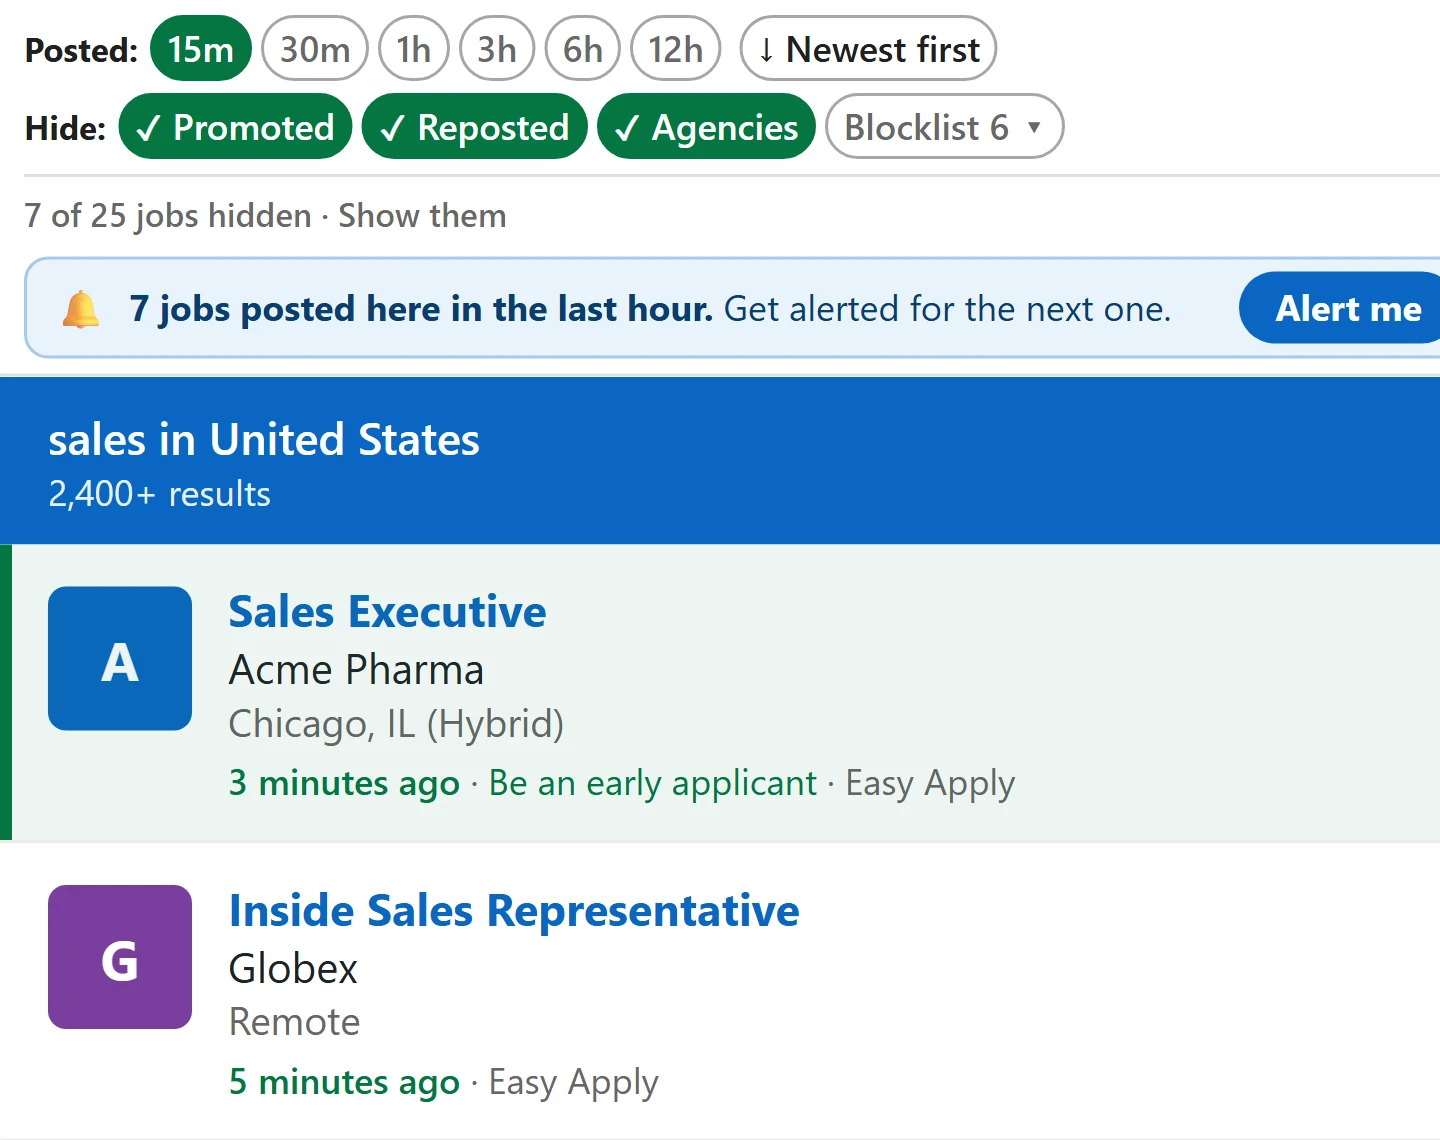
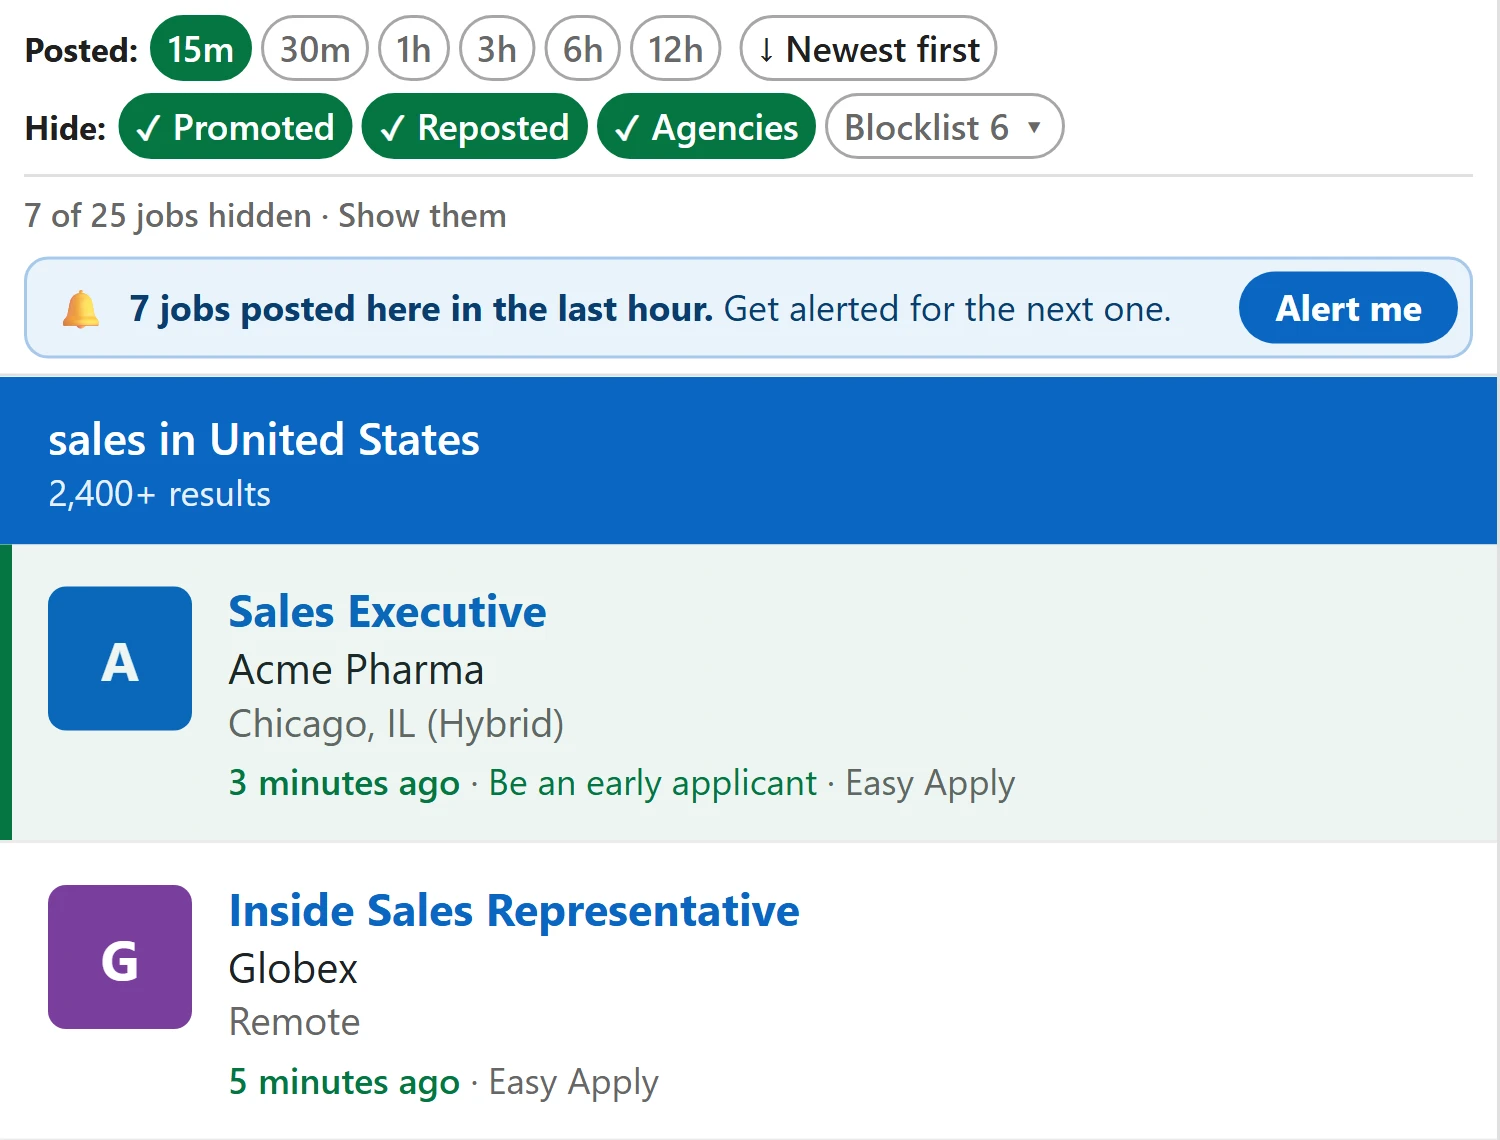
Site: before/after crop shows the full Alert me button

diff --git a/hide-promoted-reposted-jobs-linkedin.html b/hide-promoted-reposted-jobs-linkedin.html
@@ -140,11 +140,11 @@
     <p>This is the same search with EarlyApply's Hide buttons off, then on.</p>
     <div class="ba">
       <figure class="shot">
-        <picture><source srcset="img/ba-before.webp" type="image/webp"><img loading="lazy" src="img/ba-before.jpg" alt="LinkedIn jobs list before: a Reposted job and a Promoted job are in the results" width="480" height="380"></picture>
+        <picture><source srcset="img/ba-before.webp" type="image/webp"><img loading="lazy" src="img/ba-before.jpg" alt="LinkedIn jobs list before: a Reposted job and a Promoted job are in the results" width="500" height="380"></picture>
         <figcaption><strong>Before:</strong> Reposted and Promoted jobs fill the list.</figcaption>
       </figure>
       <figure class="shot">
-        <picture><source srcset="img/ba-after.webp" type="image/webp"><img loading="lazy" src="img/ba-after.jpg" alt="LinkedIn jobs list after: Hide Promoted, Reposted and Agencies are on, those jobs are gone and the bar says 7 of 25 jobs hidden" width="480" height="380"></picture>
+        <picture><source srcset="img/ba-after.webp" type="image/webp"><img loading="lazy" src="img/ba-after.jpg" alt="LinkedIn jobs list after: Hide Promoted, Reposted and Agencies are on, those jobs are gone and the bar says 7 of 25 jobs hidden" width="500" height="380"></picture>
         <figcaption><strong>After:</strong> they are gone. The bar says how many were hidden.</figcaption>
       </figure>
     </div>
